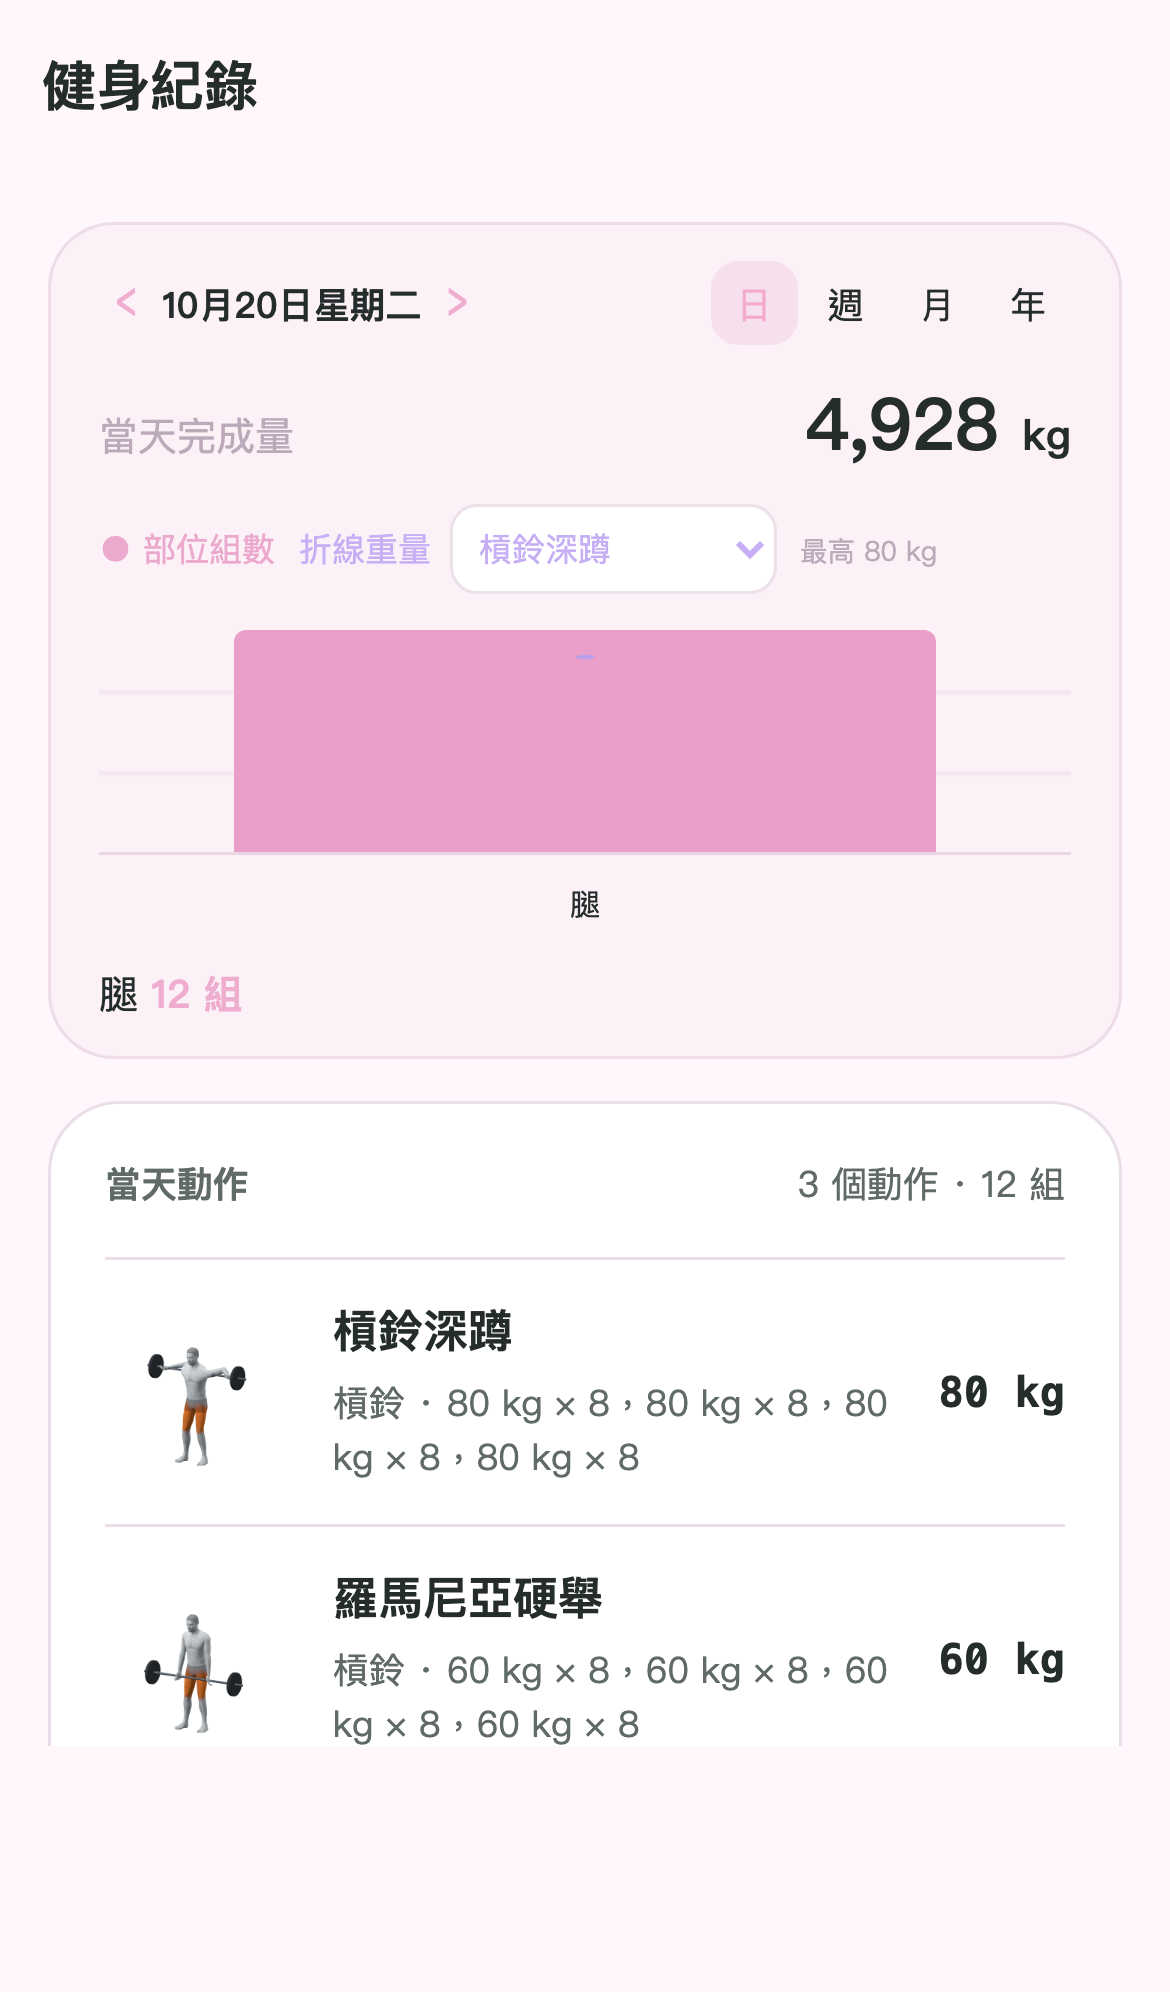
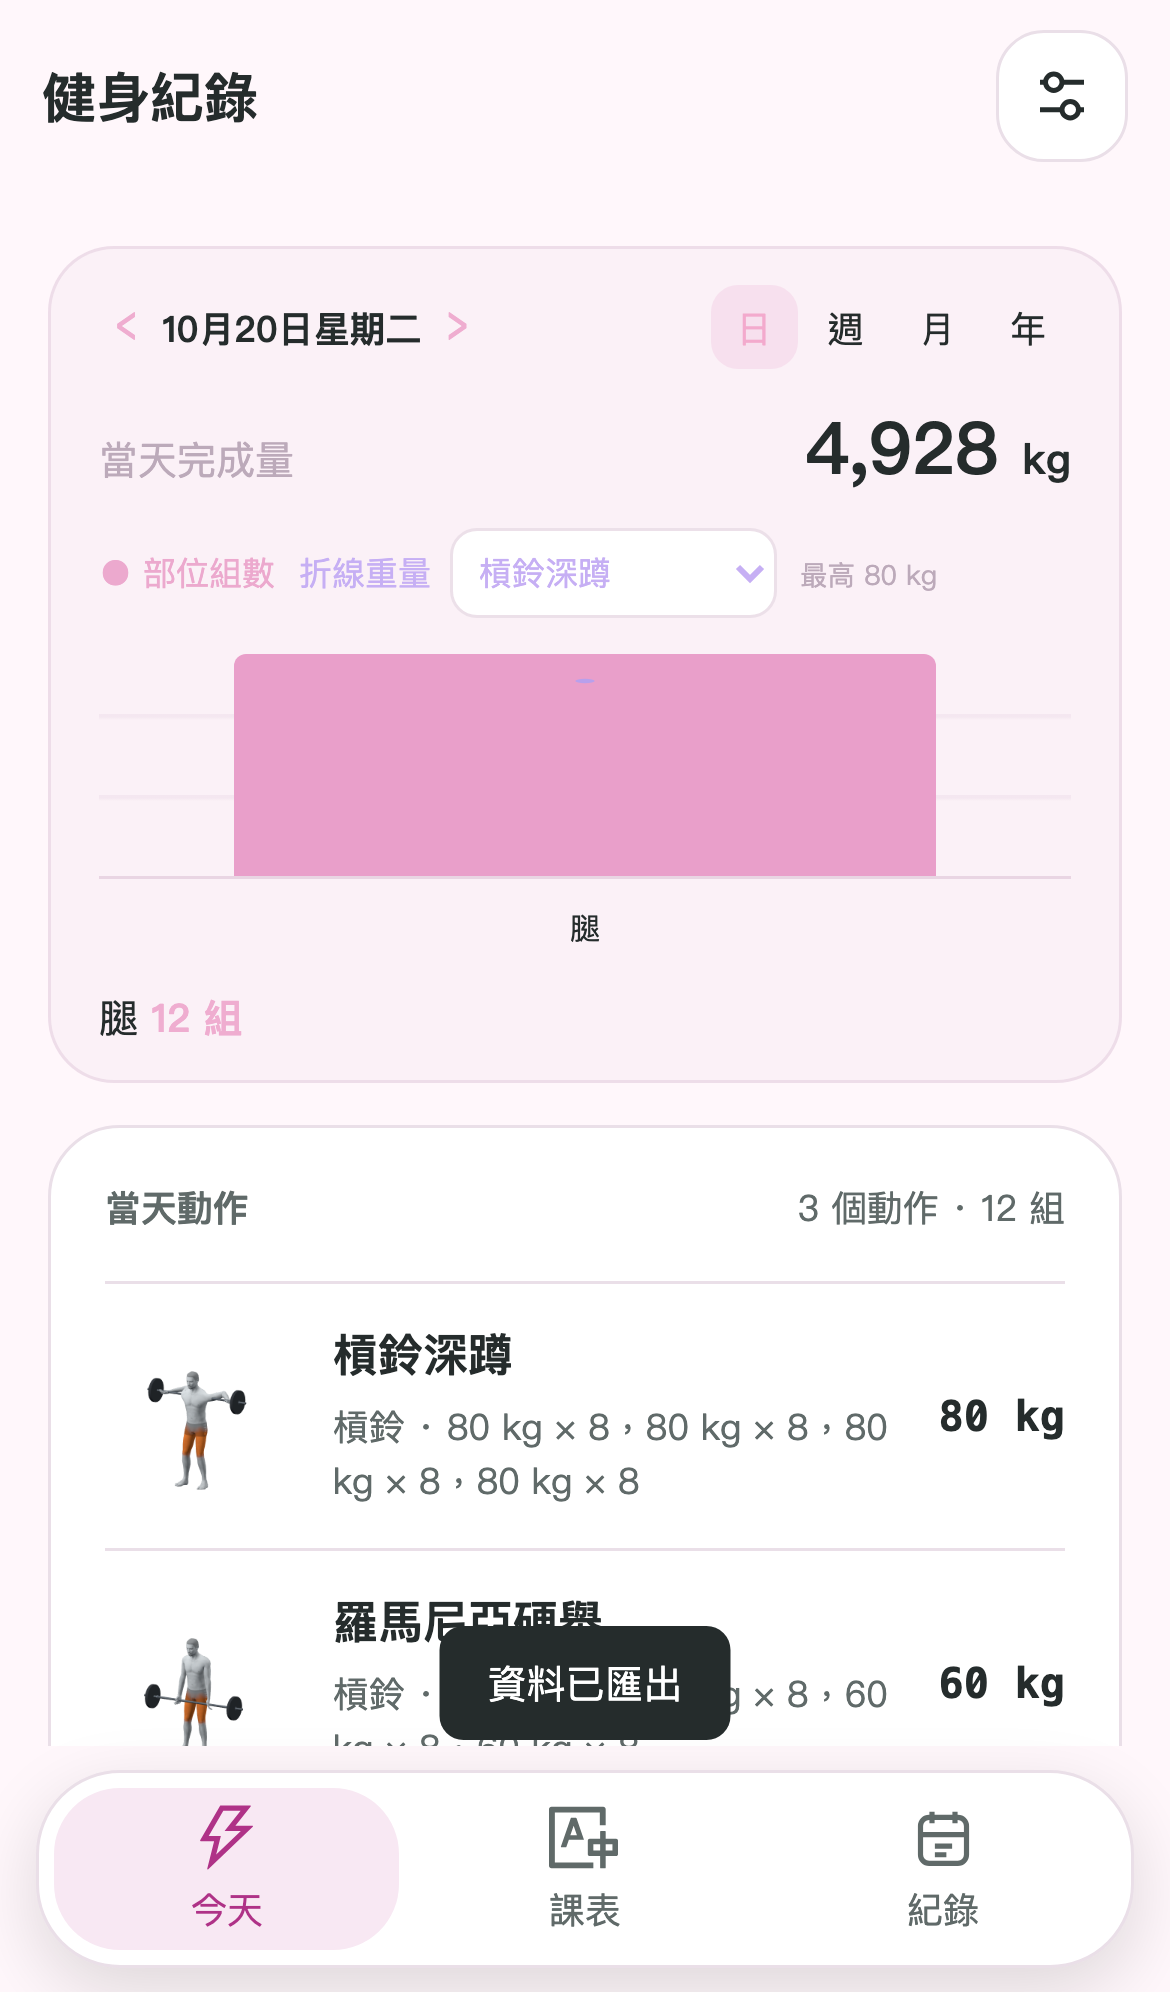
Restore standalone settings, routines, history and backup navigation

diff --git a/index.html b/index.html
@@ -9,10 +9,10 @@
   <link rel="stylesheet" href="./tracker.css" />
 
 
-<link rel="stylesheet" href="./fitness-ui.css"><link rel="stylesheet" href="./dashboard.css"></head>
+<link rel="stylesheet" href="./fitness-ui.css"><link rel="stylesheet" href="./dashboard.css"><link rel="stylesheet" href="./standalone.css"></head>
 <body class="pocket-tool pocket-plugin">
   <p id="swipe-page-hint" class="swipe-page-hint" aria-live="polite">今天 · 向左滑看紀錄</p>
-  <main class="prototype-shell" aria-label="訓練手記訓練手記">
+  <main class="prototype-shell" aria-label="健身紀錄器">
     <section id="view-today" class="view is-active" data-view="today">
       <header class="topbar">
         <div>
@@ -166,6 +166,7 @@
     <nav class="tabbar" aria-label="健身紀錄導覽">
       <button class="is-active" type="button" data-target="today"><svg aria-hidden="true"><use href="./module-icons.svg#module-1" /></svg><span>今天</span></button>
 
+      <button type="button" data-target="routines"><svg aria-hidden="true"><use href="./module-icons.svg#module-4" /></svg><span>課表</span></button>
       <button type="button" data-target="history"><svg aria-hidden="true" viewBox="0 0 24 24" style="fill:none;stroke:currentColor;stroke-width:1.8"><rect x="4" y="5" width="16" height="16" rx="3"/><path d="M8 3v4m8-4v4M4 11h16m-11 4h6m-6 3h4"/></svg><span>紀錄</span></button>
 
     </nav>
@@ -275,7 +276,7 @@
   <dialog id="settings-dialog" class="sheet-dialog settings-dialog" aria-labelledby="settings-title">
     <header class="sheet-header"><div><p class="eyebrow">個人化</p><h2 id="settings-title">設定</h2></div><form method="dialog"><button class="icon-button" aria-label="關閉"><svg aria-hidden="true"><use href="./module-icons.svg#CloseOutlined" /></svg></button></form></header><button class="icon-button" id="theme-toggle" type="button" aria-label="切換深色外觀" title="切換外觀"><svg aria-hidden="true"><use href="./module-icons.svg#BulbOutlined" /></svg></button>
     <section class="settings-group"><h3>訓練偏好</h3><label class="form-field">訓練目標<select id="settings-goal"><option>力量</option><option>增肌</option><option>習慣</option></select></label><label class="form-field">每週目標<input id="settings-frequency" type="number" min="1" max="7" /></label><fieldset class="option-fieldset"><legend>重量單位</legend><div class="segmented-options settings-units"><button type="button" data-settings-unit="kg">公斤 kg</button><button type="button" data-settings-unit="lb">磅 lb</button></div></fieldset></section>
-    <section class="settings-group"><h3>提醒</h3><label class="toggle-row"><span><strong>訓練提醒</strong><small>依照每週排程提醒</small></span><input id="training-reminders" type="checkbox" /></label><label class="toggle-row"><span><strong>休息計時完成</strong><small>休息時間結束時提示</small></span><input id="rest-reminders" type="checkbox" checked /></label></section>
+    <section class="settings-group" hidden><h3>提醒</h3><label class="toggle-row"><span><strong>訓練提醒</strong><small>依照每週排程提醒</small></span><input id="training-reminders" type="checkbox" /></label><label class="toggle-row"><span><strong>休息計時完成</strong><small>休息時間結束時提示</small></span><input id="rest-reminders" type="checkbox" checked /></label></section>
     <p id="settings-error" class="form-error" role="alert"></p><button class="primary-button" id="settings-save" type="button">保存設定</button>
   </dialog>
 

diff --git a/standalone.css b/standalone.css
@@ -1,0 +1,10 @@
+/* Standalone navigation replaces the surrounding Pocket shell. */
+#settings-open{display:grid!important}
+.tabbar{display:grid!important;grid-template-columns:repeat(3,minmax(0,1fr))!important}
+.prototype-shell{padding-bottom:90px!important}
+.view{display:none!important;padding-bottom:90px!important}
+.view.is-active,#view-routines.is-active,#view-history.is-active,#view-trends.is-active{display:block!important}
+.video-entry-band,#free-workout{display:block!important}
+#view-history .calendar-panel{display:block!important}
+[hidden]{display:none!important}
+#view-today>.topbar .topbar-actions{display:flex;margin-left:auto}

diff --git a/app.js b/app.js
@@ -184,10 +184,9 @@ function buildHistoryEntry() {
 }
 
 function showView(name) {
-  if (['history','trends'].includes(name)) name='today';
   views.forEach(view => view.classList.toggle('is-active', view.dataset.view === name));
   tabs.forEach(tab => tab.classList.toggle('is-active', tab.dataset.target === name));
-  document.querySelector('.tabbar').hidden = true;
+  document.querySelector('.tabbar').hidden = name === 'workout';
   const hint = document.getElementById('swipe-page-hint');
   hint.hidden = true;
   hint.textContent = name === 'history' ? '紀錄 · 向右滑回今天' : '今天 · 向左滑看紀錄';
